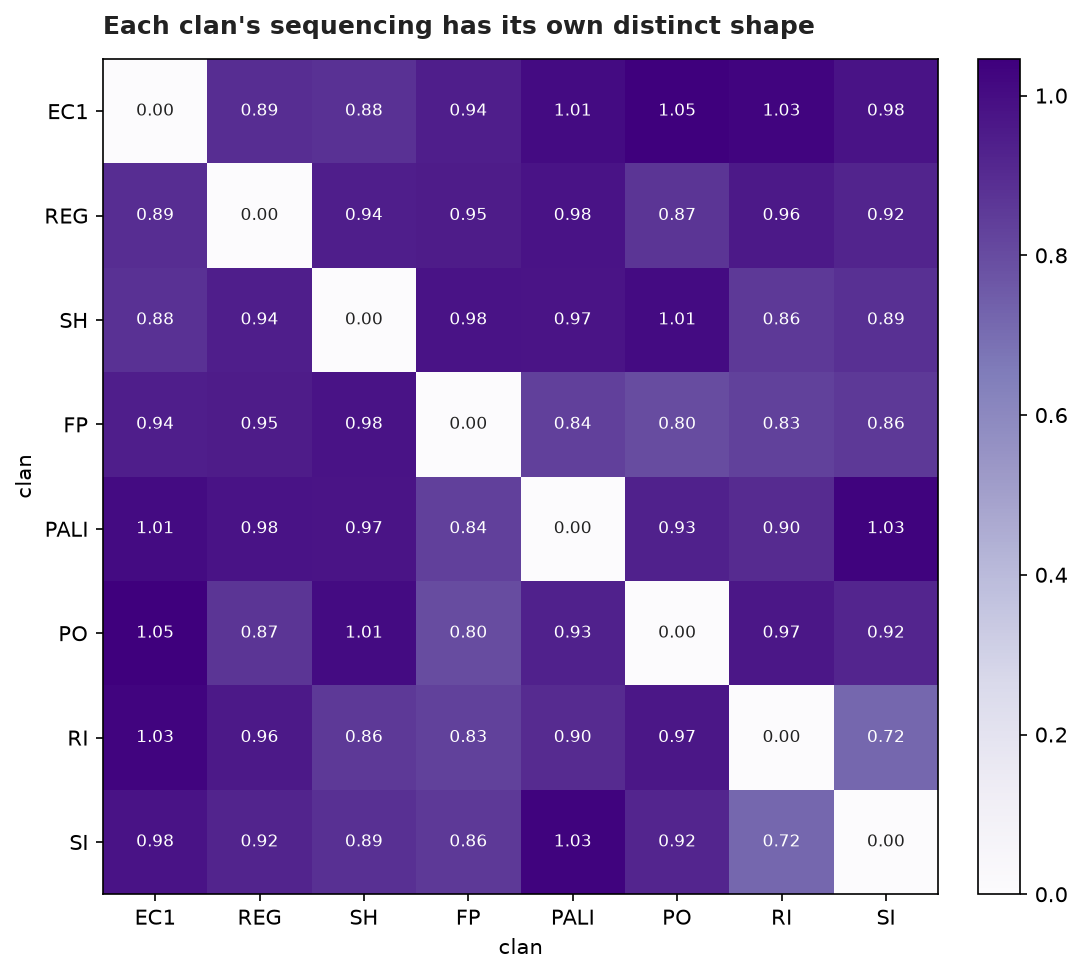
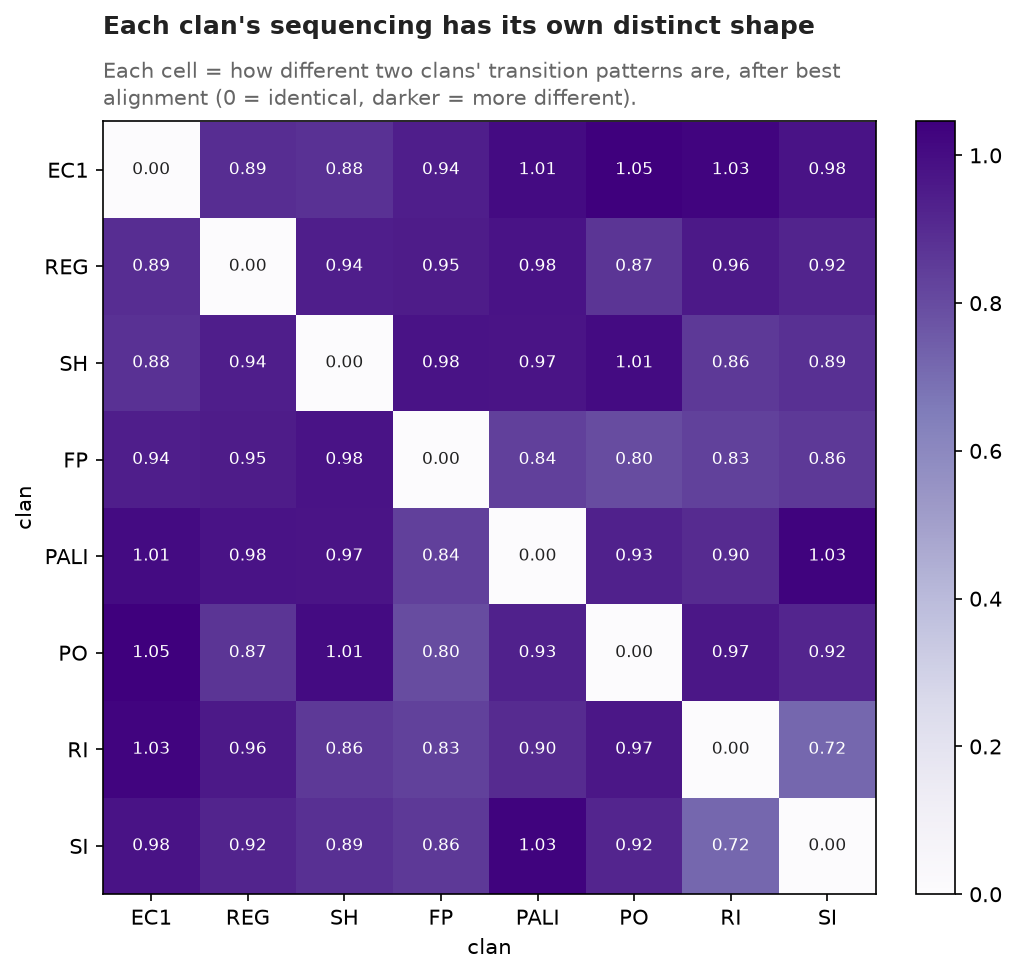
Heatmaps: add succinct 'Each cell = ...' subtitles to figures 4 and 5
One line each explaining what the cell values mean, so the reader knows immediately
what they're looking at.

diff --git a/src/coda_recovery/clan_similarity.py b/src/coda_recovery/clan_similarity.py
@@ -179,10 +179,14 @@ def main():
     # cross-prediction is diverging around a meaningful zero (positive = shared
     # grammar, negative = actively mis-predicts): two hues, neutral (white) at 0.
     tnorm = TwoSlopeNorm(vmin=float(np.nanmin(T)), vcenter=0.0, vmax=float(np.nanmax(T)))
-    _heatmap(T, "Does one clan's grammar predict another's next coda?", "",
+    _heatmap(T, "Does one clan's grammar predict another's next coda?",
+             "Each cell = bits by which clan A's grammar beats clan B's own base rates at predicting "
+             "B's next coda (warm = shared, cool = worse than chance).",
              "4_grammar_is_clan_specific.png", "RdBu_r", norm=tnorm)
     # Procrustes distance is sequential magnitude (0 = identical): one hue, light→dark.
-    _heatmap(D, "Each clan's sequencing has its own distinct shape", "",
+    _heatmap(D, "Each clan's sequencing has its own distinct shape",
+             "Each cell = how different two clans' transition patterns are, after best alignment "
+             "(0 = identical, darker = more different).",
              "5_grammar_geometry.png", "Purples", fmt="{:.2f}", xlabel="clan", ylabel="clan")
     print("\nwrote results/clan_similarity.csv, figures plain/4 figures plain/3 & plain/4 plain/5")
 
